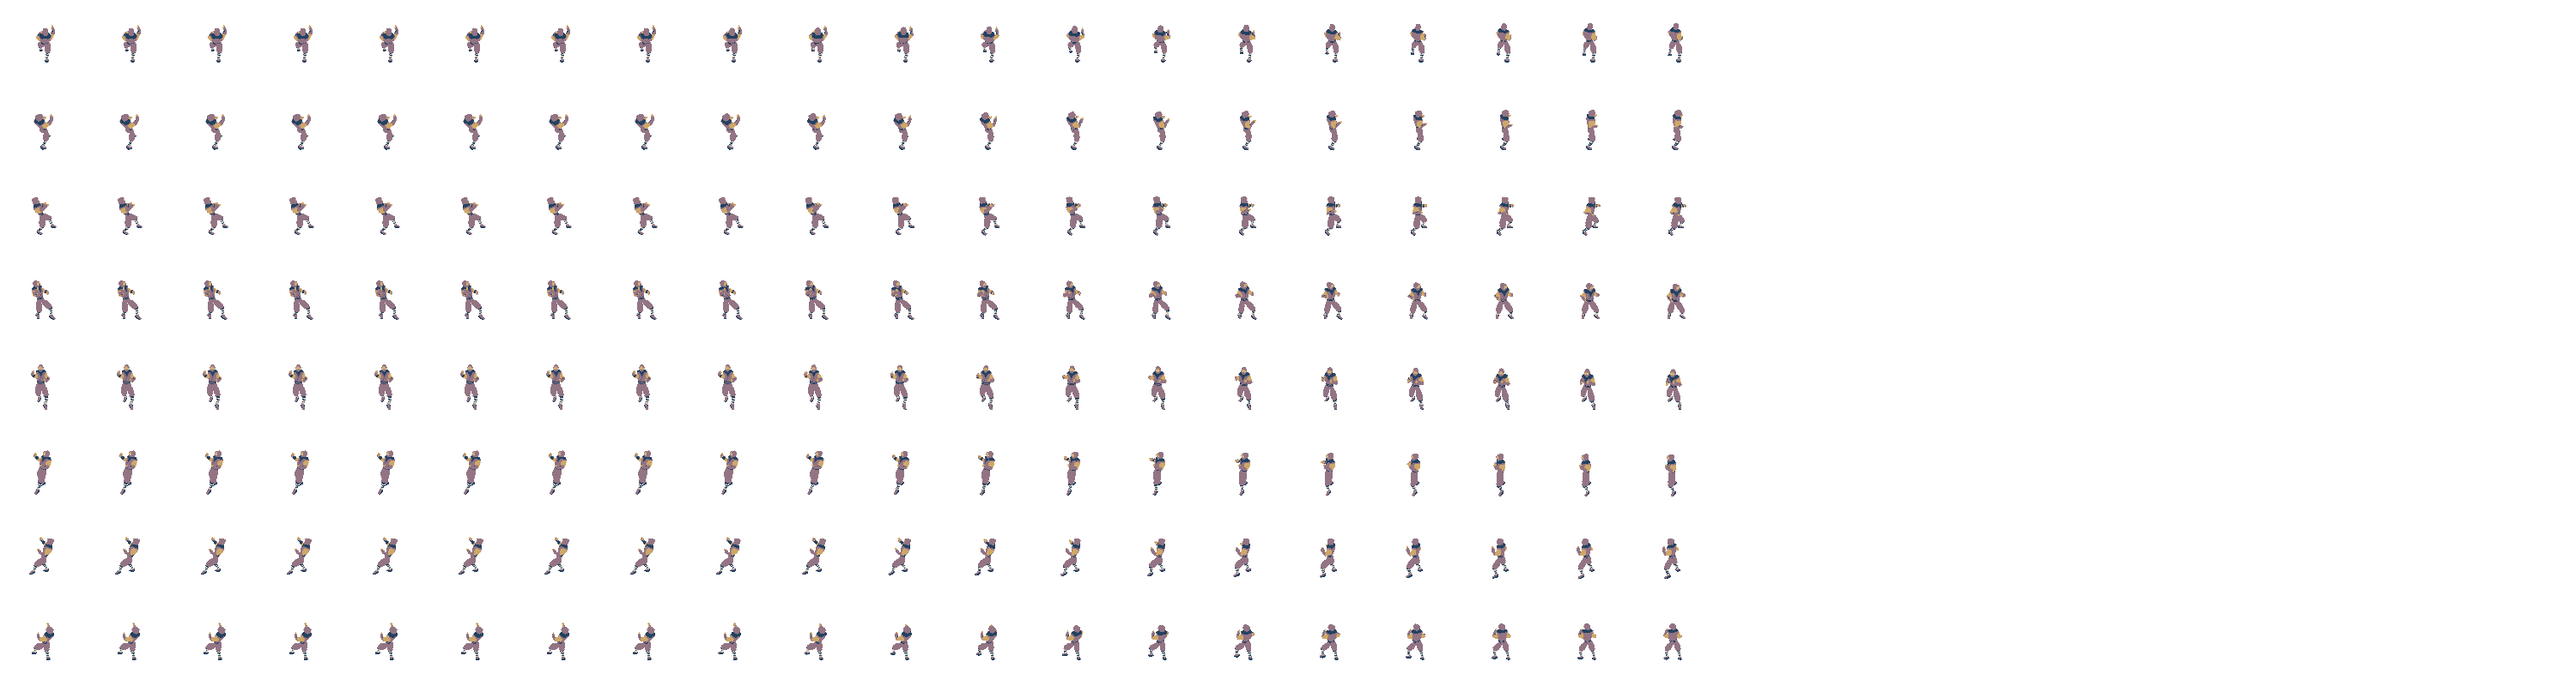
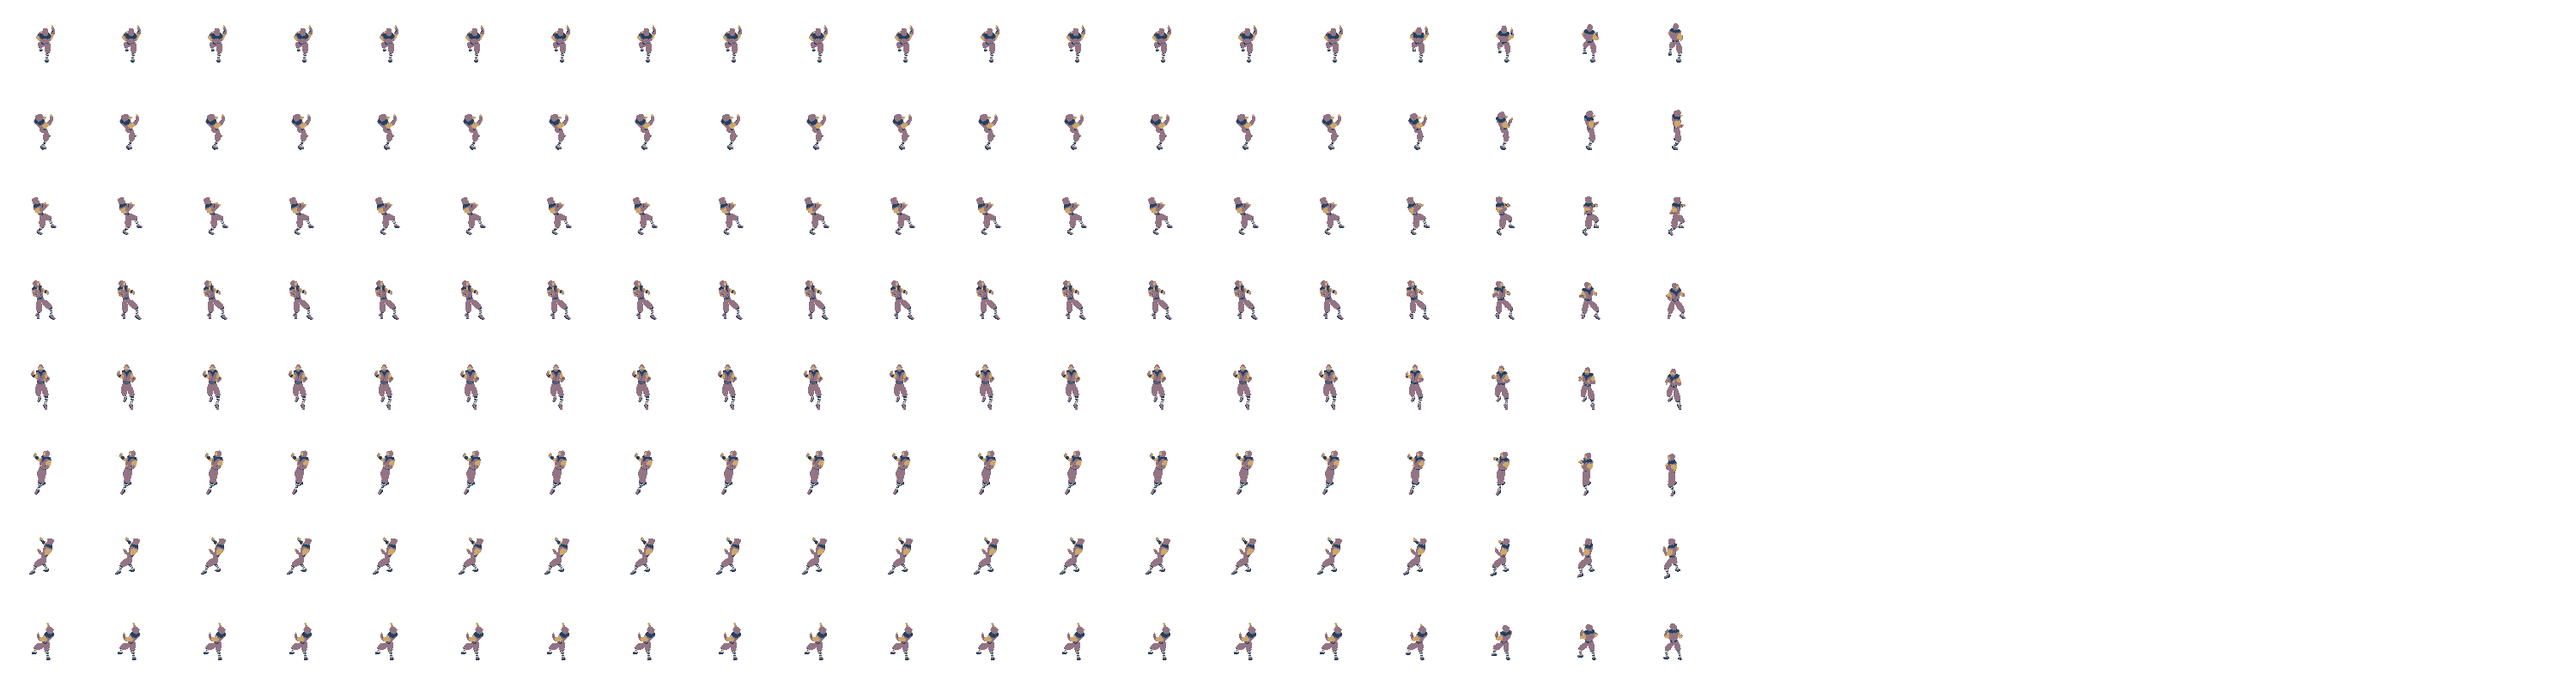
refactor: Reduce code redundancy in dude animations

diff --git a/src/dude/animations.rs b/src/dude/animations.rs
@@ -30,6 +30,7 @@ pub enum DudeAnimations {
     ParryFail,
     ParrySuccess,
     ParrySuccessRecover,
+    Slide,
 }
 
 impl DudeAnimations {
@@ -78,93 +79,20 @@ fn direction_index_offset(direction: Vec2) -> usize {
     }
 }
 
-fn match_attack_state(
+fn get_animation_data(
     assets: &Res<GameAssets>,
-    attack: Attack,
+    dude_animation: DudeAnimations,
     direction: Vec2,
+    repeat: bool,
 ) -> (Handle<Image>, Handle<AnimationClip2D>, bool, DudeAnimations) {
-    let animation_state = match attack {
-        Attack::Light1 => DudeAnimations::Light1,
-        Attack::Light2 => DudeAnimations::Light2,
-        Attack::Light3 => DudeAnimations::Light3,
-        Attack::Heavy1 => DudeAnimations::Heavy1,
-        Attack::Heavy2 => DudeAnimations::Heavy2,
-        Attack::Heavy3 => DudeAnimations::Heavy3,
-    };
-    let index = animation_state.index();
+    let index = dude_animation.index();
     let animation_index = index * 8 + direction_index_offset(direction);
 
     (
         assets.dude_textures[index].clone(),
         assets.dude_animations[animation_index].clone(),
-        false,
-        animation_state,
-    )
-}
-
-fn match_recover_state(
-    assets: &Res<GameAssets>,
-    attack: Attack,
-    direction: Vec2,
-) -> (Handle<Image>, Handle<AnimationClip2D>, bool, DudeAnimations) {
-    let animation_state = match attack {
-        Attack::Light1 => DudeAnimations::Light1Recover,
-        Attack::Light2 => DudeAnimations::Light2Recover,
-        Attack::Light3 => DudeAnimations::Light3Recover,
-        Attack::Heavy1 => DudeAnimations::Heavy1Recover,
-        Attack::Heavy2 => DudeAnimations::Heavy2Recover,
-        Attack::Heavy3 => DudeAnimations::Heavy3Recover,
-    };
-    let index = animation_state.index();
-    let animation_index = index * 8 + direction_index_offset(direction);
-
-    (
-        assets.dude_textures[index].clone(),
-        assets.dude_animations[animation_index].clone(),
-        false,
-        animation_state,
-    )
-}
-
-fn match_stagger_state(
-    assets: &Res<GameAssets>,
-    stagger_state: StaggerState,
-    direction: Vec2,
-) -> (Handle<Image>, Handle<AnimationClip2D>, bool, DudeAnimations) {
-    let animation_state = match stagger_state {
-        StaggerState::Normal => DudeAnimations::StaggerNormal,
-        StaggerState::StanceBreak => DudeAnimations::StanceBreak,
-    };
-    let index = animation_state.index();
-    let animation_index = index * 8 + direction_index_offset(direction);
-
-    (
-        assets.dude_textures[index].clone(),
-        assets.dude_animations[animation_index].clone(),
-        false,
-        animation_state,
-    )
-}
-
-fn match_parry_state(
-    assets: &Res<GameAssets>,
-    parry_state: ParryState,
-    direction: Vec2,
-) -> (Handle<Image>, Handle<AnimationClip2D>, bool, DudeAnimations) {
-    let animation_state = match parry_state {
-        ParryState::Start => DudeAnimations::Parry,
-        ParryState::Fail => DudeAnimations::ParryFail,
-        ParryState::Success => DudeAnimations::ParrySuccess,
-        ParryState::Recover => DudeAnimations::ParrySuccessRecover,
-    };
-    let index = animation_state.index();
-    let animation_index = index * 8 + direction_index_offset(direction);
-
-    (
-        assets.dude_textures[index].clone(),
-        assets.dude_animations[animation_index].clone(),
-        false,
-        animation_state,
+        repeat,
+        dude_animation,
     )
 }
 
@@ -177,30 +105,47 @@ pub fn dude_state_animation(
     direction: Vec2,
 ) -> (Handle<Image>, Handle<AnimationClip2D>, bool, DudeAnimations) {
     match state {
-        DudeState::Idling => {
-            let index = DudeAnimations::Idle.index();
-            let animation_index = index * 8 + direction_index_offset(direction);
-            (
-                assets.dude_textures[index].clone(),
-                assets.dude_animations[animation_index].clone(),
-                true,
-                DudeAnimations::Idle,
-            )
+        DudeState::Idling => get_animation_data(assets, DudeAnimations::Idle, direction, true),
+        DudeState::Running => get_animation_data(assets, DudeAnimations::Run, direction, true),
+        DudeState::Attacking => {
+            let dude_animation = match attack {
+                Attack::Light1 => DudeAnimations::Light1,
+                Attack::Light2 => DudeAnimations::Light2,
+                Attack::Light3 => DudeAnimations::Light3,
+                Attack::Heavy1 => DudeAnimations::Heavy1,
+                Attack::Heavy2 => DudeAnimations::Heavy2,
+                Attack::Heavy3 => DudeAnimations::Heavy3,
+            };
+            get_animation_data(assets, dude_animation, direction, false)
         }
-        DudeState::Running => {
-            let index = DudeAnimations::Run.index();
-            let animation_index = index * 8 + direction_index_offset(direction);
-            (
-                assets.dude_textures[index].clone(),
-                assets.dude_animations[animation_index].clone(),
-                true,
-                DudeAnimations::Run,
-            )
+        DudeState::Recovering => {
+            let dude_animation = match attack {
+                Attack::Light1 => DudeAnimations::Light1Recover,
+                Attack::Light2 => DudeAnimations::Light2Recover,
+                Attack::Light3 => DudeAnimations::Light3Recover,
+                Attack::Heavy1 => DudeAnimations::Heavy1Recover,
+                Attack::Heavy2 => DudeAnimations::Heavy2Recover,
+                Attack::Heavy3 => DudeAnimations::Heavy3Recover,
+            };
+            get_animation_data(assets, dude_animation, direction, false)
         }
-        DudeState::Attacking => match_attack_state(assets, attack, direction),
-        DudeState::Recovering => match_recover_state(assets, attack, direction),
-        DudeState::Staggering => match_stagger_state(assets, stagger_state, direction),
-        DudeState::Parrying => match_parry_state(assets, parry_state, direction),
+        DudeState::Staggering => {
+            let dude_animation = match stagger_state {
+                StaggerState::Normal => DudeAnimations::StaggerNormal,
+                StaggerState::StanceBreak => DudeAnimations::StanceBreak,
+            };
+            get_animation_data(assets, dude_animation, direction, false)
+        }
+        DudeState::Parrying => {
+            let dude_animation = match parry_state {
+                ParryState::Start => DudeAnimations::Parry,
+                ParryState::Fail => DudeAnimations::ParryFail,
+                ParryState::Success => DudeAnimations::ParrySuccess,
+                ParryState::Recover => DudeAnimations::ParrySuccessRecover,
+            };
+            get_animation_data(assets, dude_animation, direction, false)
+        }
+        DudeState::Sliding => get_animation_data(assets, DudeAnimations::Slide, direction, false),
     }
 }
 

diff --git a/src/assets/mod.rs b/src/assets/mod.rs
@@ -228,6 +228,14 @@ pub struct GameAssets {
             "dude/dude.trickfilm.ron#parry_success_recover-o5",
             "dude/dude.trickfilm.ron#parry_success_recover-o6",
             "dude/dude.trickfilm.ron#parry_success_recover-o7",
+            "dude/dude.trickfilm.ron#slide-o0",
+            "dude/dude.trickfilm.ron#slide-o1",
+            "dude/dude.trickfilm.ron#slide-o2",
+            "dude/dude.trickfilm.ron#slide-o3",
+            "dude/dude.trickfilm.ron#slide-o4",
+            "dude/dude.trickfilm.ron#slide-o5",
+            "dude/dude.trickfilm.ron#slide-o6",
+            "dude/dude.trickfilm.ron#slide-o7",
         ),
         collection(typed)
     )]

diff --git a/src/enemy/state/mod.rs b/src/enemy/state/mod.rs
@@ -91,7 +91,7 @@ fn transition_idle_state(mut q_enemies: Query<(&AnimationPlayer2D, &mut Enemy, &
         }
 
         match enemy.state_machine.state() {
-            DudeState::Idling | DudeState::Parrying => {}
+            DudeState::Idling | DudeState::Parrying | DudeState::Sliding => {}
             DudeState::Running => {
                 if enemy.target.is_none() {
                     enemy.state_machine.set_state(DudeState::Idling);

diff --git a/src/player/state/mod.rs b/src/player/state/mod.rs
@@ -156,6 +156,11 @@ fn transition_idle_state(
                 }
             }
         }
+        DudeState::Sliding => {
+            if animator.just_finished() {
+                player.state_machine.set_state(DudeState::Idling);
+            }
+        }
     };
 }
 

diff --git a/src/dude/mod.rs b/src/dude/mod.rs
@@ -25,6 +25,7 @@ pub enum DudeState {
     Recovering,
     Staggering,
     Parrying,
+    Sliding,
 }
 
 #[derive(Default, Clone, Copy, PartialEq, Debug)]
